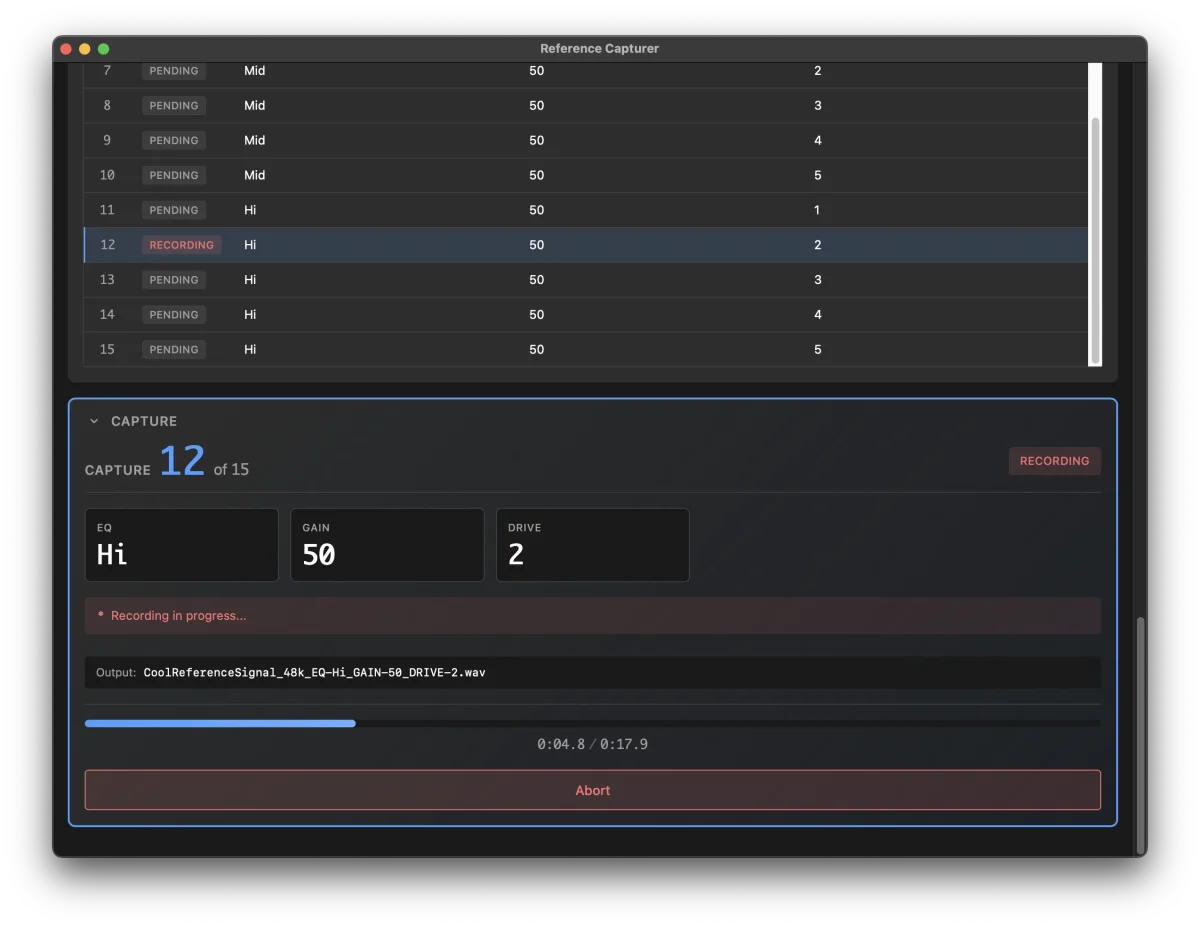
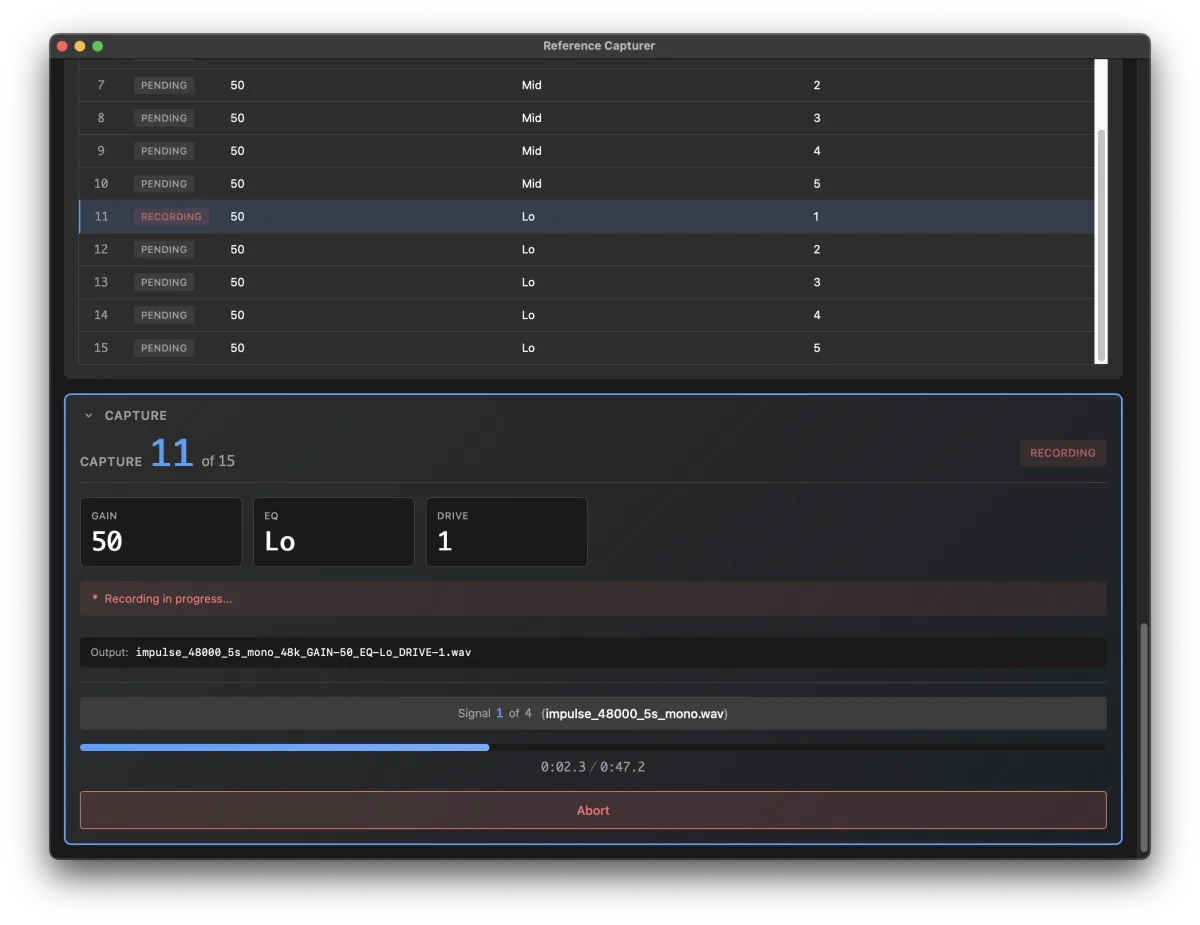
Docs: Update README and screenshots for multiple reference signals support

diff --git a/README.md b/README.md
@@ -7,9 +7,9 @@ A standalone macOS desktop application for capturing audio through hardware unit
 - **Audio I/O Setup**: Device enumeration, input/output channel selection, sample rate configuration (44.1/48/96 kHz)
 - **Real-time Metering**: Input and output level meters (RMS + peak, dBFS) with output trim control
 - **Calibration Wizard**: 4-step guided workflow for gain staging before capture sessions
-- **Reference Signal**: Load mono WAV files, preview playback, display metadata
+- **Reference Signals**: Load multiple mono WAV files with per-signal tail settings, preview playback
 - **Capture Matrix**: Define controls (continuous/discrete) and values, auto-generate capture list as cartesian product
-- **Capture Workflow**: Synchronized playback + recording with configurable tail (0-1000ms), auto-advance through captures
+- **Capture Workflow**: Synchronized playback + recording, auto-cycles through all reference signals per capture, auto-advance through captures
 - **Auto-export**: Standardized naming convention (`{signal}_{samplerate}_{control1}-{value1}_...wav`)
 - **Capture Log**: JSON metadata for ML training pipeline
 - **Project Persistence**: Save/load sessions, auto-save after each capture
@@ -87,7 +87,7 @@ ReferenceCapturer/
 
 1. **Audio Setup**: Select input/output devices and channels
 2. **Calibrate**: Run the calibration wizard to set proper gain staging
-3. **Load Reference**: Browse for a mono WAV file to use as test signal
+3. **Load Reference Signals**: Browse for one or more mono WAV files (each gets its own tail setting)
 4. **Define Matrix**: Add controls with values you want to capture (e.g., GAIN: 0, 25, 50, 75, 100)
 5. **Generate List**: Click "Generate Capture List" to create capture combinations
 6. **Set Output Folder**: Choose where captured files will be saved
@@ -102,15 +102,16 @@ Define controls like:
 - `GAIN` (continuous): 0, 25, 50, 75, 100
 - `SHAPE` (continuous): 1-10:1
 
-This generates 150 captures (3 x 5 x 10).
+This generates 150 capture entries (3 x 5 x 10). If you have 2 reference signals loaded, each entry produces 2 recordings (300 total files).
 
 ![Pending Captures](docs/pendingcaptures-1200w.webp)
 
 ### Output Files
 
-Captures are named automatically:
+With multiple reference signals, each capture entry records once per signal. Files are named automatically using the signal name:
 ```
 test_di_01_48k_MODE-UP_GAIN-75_SHAPE-10.wav
+test_di_02_48k_MODE-UP_GAIN-75_SHAPE-10.wav
 ```
 
 A `capture_log.json` file tracks all capture metadata for ML pipeline consumption.
@@ -122,7 +123,7 @@ A `capture_log.json` file tracks all capture metadata for ML pipeline consumptio
 Projects are saved as JSON and include:
 - Audio device settings
 - Calibration data
-- Reference signal path
+- Reference signals (paths and per-signal tail settings)
 - Capture matrix definition
 - Capture list with completion status
 - Output folder path
